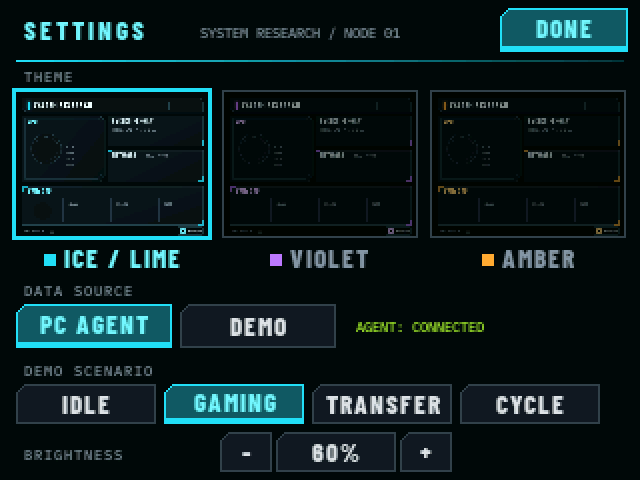
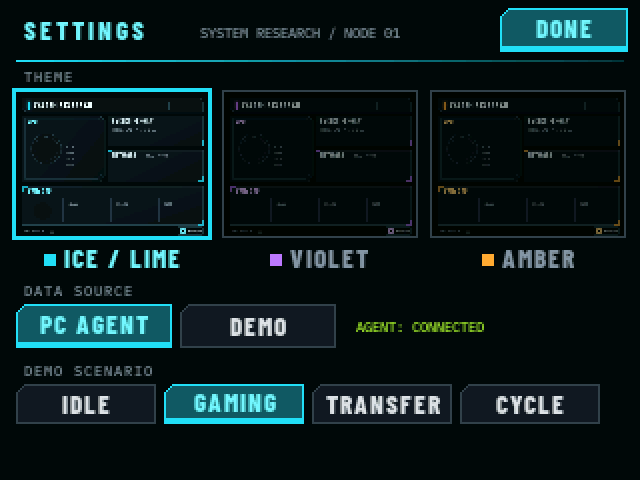
docs: real-board demo GIF and photos, crisp 2x renders
- images/demo.gif: dashboard + tapping through the history pages on a real
  CYD (from the owner's video; cropped, 10 fps, 2.3 MB, no audio/metadata)
- three photos of the board (live data from an M1 MacBook, demo GAMING,
  demo TRANSFER), cropped to the board, EXIF / phone info stripped
- renders regenerated from tools/host_preview at 640x480 (settings page now
  without the hidden BRIGHTNESS row)
- README EN/TH: gallery split into "on a real board" and "renders"; brightness
  wording matches BACKLIGHT_DIMMING

Changed region(s): [[0.3438, 0.875, 0.7188, 1.0], [0.0312, 0.9375, 0.1875, 0.9688]]

diff --git a/README.th.md b/README.th.md
@@ -8,9 +8,19 @@
 ![Agent](https://img.shields.io/badge/agent-Windows%20%7C%20macOS%20%7C%20Linux-blue)
 ![License](https://img.shields.io/badge/license-MIT-green)
 
-![Dashboard](images/dashboard.png)
+<p align="center"><img src="images/demo.gif" width="320" alt="หน้าหลักในโหมดเดโม แล้วแตะดูหน้ากราฟย้อนหลัง CPU / อุณหภูมิ / หน่วยความจำ / GPU"></p>
 
-> ภาพในไฟล์นี้เป็น **ภาพที่เรนเดอร์จากโค้ด UI จริงของ firmware** ที่คอมไพล์บนคอมพิวเตอร์ (`tools/host_preview`) ไม่ใช่รูปถ่ายบอร์ด ดู [สิ่งที่ยังไม่ได้ทดสอบกับบอร์ดจริง](#status)
+**บนบอร์ดจริง:**
+
+| ข้อมูลจริงจาก MacBook M1 | เดโม: GAMING | เดโม: TRANSFER |
+|---|---|---|
+| ![Live on a Mac](images/photo-live-mac.jpg) | ![Demo gaming](images/photo-demo-gaming.jpg) | ![Demo transfer](images/photo-demo-transfer.jpg) |
+
+<sub>รูปข้อมูลจริงถ่ายก่อนอัปเดต agent ให้อ่านอุณหภูมิบน Apple Silicon ได้ ในรูปนั้นอุณหภูมิ CPU / NVMe จึงยังเป็น `--`</sub>
+
+**ภาพเรนเดอร์จากโค้ด UI ชุดเดียวกัน** (`tools/host_preview` ตรงทุกพิกเซล):
+
+![Dashboard](images/dashboard.png)
 
 | ICE / LIME | VIOLET | AMBER |
 |---|---|---|
@@ -19,7 +29,7 @@
 | | | |
 |---|---|---|
 | ![Detail](images/detail.png) | ![Settings](images/settings.png) | ![Offline](images/offline.png) |
-| แตะแผงไหนก็ได้ → กราฟย้อนหลัง 60 วินาที พร้อม MIN / AVG / MAX | ธีม, แหล่งข้อมูล, โหมดเดโม, ความสว่าง — บันทึกลง flash | agent ไม่ทำงาน → ขึ้นสถานะ OFFLINE ชัดเจน |
+| แตะแผงไหนก็ได้ → กราฟย้อนหลัง 60 วินาที พร้อม MIN / AVG / MAX | ธีม, แหล่งข้อมูล, โหมดเดโม — บันทึกลง flash | agent ไม่ทำงาน → ขึ้นสถานะ OFFLINE ชัดเจน |
 
 ## ฟีเจอร์
 
@@ -29,7 +39,7 @@
 - **โหมดเดโม** (Settings → DATA SOURCE → DEMO): ตัวจำลองในเครื่อง มีพรีเซ็ต IDLE / GAMING / TRANSFER ตามดีไซน์ หรือ CYCLE วนไปเรื่อยๆ — ไม่ต้องมี PC
 - **หน้าประวัติ** — แตะ CPU / RAM / NET / NVMe เพื่อดูกราฟ 60 วินาที, MIN / AVG / MAX; ปุ่มลูกศรไปต่อที่อุณหภูมิ CPU และ **GPU load** (ชื่อ GPU, อุณหภูมิ, VRAM) ซึ่งเลย์เอาต์หลักไม่มีแผงให้
 - **ไม่กระพริบ**: เฟรมและป้ายที่ไม่เปลี่ยนถูกเรนเดอร์ไว้ใน flash ล่วงหน้า วาดเฉพาะ widget สด และแต่ละส่วนจะถูกวาดใหม่ **เฉพาะเมื่อค่าเปลี่ยน** (หน้าจอนิ่งๆ ไม่ส่งพิกเซลเลย) ไม่ใช้ buffer เต็มจอ เพราะ CYD ไม่มี PSRAM
-- ปรับ **ความสว่าง** ได้ และการตั้งค่าทั้งหมดเก็บใน NVS flash ไม่หายแม้ถอดไฟ
+- การตั้งค่าทั้งหมดเก็บใน NVS flash ไม่หายแม้ถอดไฟ ไฟหลังจอเปิดเต็มตลอด เพราะ CYD ตัวนี้หรี่ไฟด้วย PWM ไม่ได้ (ดู [สถานะ](#status)) ถ้าบอร์ดที่ใช้หรี่ได้ เปิดปุ่มปรับความสว่างด้วย `BACKLIGHT_DIMMING 1`
 
 ## สถาปัตยกรรม
 
@@ -157,11 +167,11 @@ python monitor_agent.py          # หา port ของบอร์ดเอง
 | `<` `>` ในหน้าประวัติ | วนไป CPU load → CPU temp → หน่วยความจำ → GPU → เครือข่าย → NVMe |
 | `BACK` / `DONE` | กลับหน้าหลัก |
 
-**Settings**: ธีม (ภาพย่อจากอาร์ตจริง), แหล่งข้อมูล (`PC AGENT` / `DEMO`), โหมดเดโม (`IDLE` / `GAMING` / `TRANSFER` / `CYCLE`), ความสว่าง (20–100 %) และมีบรรทัดบอกว่าตอนนี้ agent เชื่อมต่ออยู่ไหม แม้จะอยู่ในโหมด DEMO
+**Settings**: ธีม (ภาพย่อจากอาร์ตจริง), แหล่งข้อมูล (`PC AGENT` / `DEMO`), โหมดเดโม (`IDLE` / `GAMING` / `TRANSFER` / `CYCLE`), ความสว่าง (20–100 %) เฉพาะเมื่อตั้ง `BACKLIGHT_DIMMING 1` และมีบรรทัดบอกว่าตอนนี้ agent เชื่อมต่ออยู่ไหม แม้จะอยู่ในโหมด DEMO
 
 สถานะที่ header: **ONLINE** สีเขียว (ข้อมูลสด), **DEMO** สีเหลืองอำพัน (ตัวจำลอง), **OFFLINE** สีแดงกระพริบ (ไม่มีข้อมูลเกิน 2.5 วินาที)
 
-> ตัวเลือก tile และแถบ RGB วิ่งของเฟิร์มแวร์เดิมถูกนำออก: หน้าหลักตอนนี้เป็นเลย์เอาต์เดียวตามดีไซน์ ส่วนธีม ความสว่าง หน้าประวัติ รายละเอียด GPU และการบันทึกค่ายังอยู่ครบ
+> ตัวเลือก tile และแถบ RGB วิ่งของเฟิร์มแวร์เดิมถูกนำออก: หน้าหลักตอนนี้เป็นเลย์เอาต์เดียวตามดีไซน์ ส่วนธีม หน้าประวัติ รายละเอียด GPU และการบันทึกค่ายังอยู่ครบ
 
 ## การใช้งานประจำวัน & Auto-start
 

diff --git a/README.md b/README.md
@@ -8,9 +8,19 @@ A PC/Mac hardware monitor on a **$6 ESP32 board with a 2.8" touch screen** (CYD 
 ![Agent](https://img.shields.io/badge/agent-Windows%20%7C%20macOS%20%7C%20Linux-blue)
 ![License](https://img.shields.io/badge/license-MIT-green)
 
-![Dashboard](images/dashboard.png)
+<p align="center"><img src="images/demo.gif" width="320" alt="Dashboard in demo mode, then tapping through the CPU / temperature / memory / GPU history pages"></p>
 
-> The pictures in this README are **renders of the real firmware UI code** compiled for the host (`tools/host_preview`), not photos of a board. See [What has not been tested on hardware](#status).
+**On a real board:**
+
+| Live data from an M1 MacBook | Demo: GAMING | Demo: TRANSFER |
+|---|---|---|
+| ![Live on a Mac](images/photo-live-mac.jpg) | ![Demo gaming](images/photo-demo-gaming.jpg) | ![Demo transfer](images/photo-demo-transfer.jpg) |
+
+<sub>The live photo was taken before the agent learned to read Apple Silicon temperatures, so CPU / NVMe temperature still show `--` there.</sub>
+
+**Renders of the same UI code** (`tools/host_preview`, pixel-exact):
+
+![Dashboard](images/dashboard.png)
 
 | ICE / LIME | VIOLET | AMBER |
 |---|---|---|
@@ -19,7 +29,7 @@ A PC/Mac hardware monitor on a **$6 ESP32 board with a 2.8" touch screen** (CYD 
 | | | |
 |---|---|---|
 | ![Detail](images/detail.png) | ![Settings](images/settings.png) | ![Offline](images/offline.png) |
-| Tap a panel → 60 s history with MIN / AVG / MAX | Theme, data source, demo scenario, brightness — saved to flash | Agent not running → clear OFFLINE state |
+| Tap a panel → 60 s history with MIN / AVG / MAX | Theme, data source, demo scenario — saved to flash | Agent not running → clear OFFLINE state |
 
 ## Features
 
@@ -29,7 +39,7 @@ A PC/Mac hardware monitor on a **$6 ESP32 board with a 2.8" touch screen** (CYD 
 - **Demo mode** (Settings → DATA SOURCE → DEMO): built-in simulator with the design's IDLE / GAMING / TRANSFER presets, or CYCLE through them — no PC needed
 - **History pages** — tap CPU / RAM / NET / NVMe for a 60-second graph, MIN / AVG / MAX; the arrows also reach CPU temperature and **GPU load** (GPU name, temperature, VRAM), which the dashboard layout has no panel for
 - **Flicker-free**: the static frames and labels are pre-rendered into flash; only the live widgets are drawn, each region repainted **only when its value changed** (a steady screen sends no pixels at all). No full-screen buffer — the CYD has no PSRAM
-- Backlight **brightness** control; all settings persist in NVS flash across power cycles
+- All settings persist in NVS flash across power cycles. The backlight runs full-on: this CYD's backlight cannot dim with PWM (see [Status](#status)); boards that can dim get a brightness control with `BACKLIGHT_DIMMING 1`
 
 ## Architecture
 
@@ -157,11 +167,11 @@ What each OS can provide (besides GPUs):
 | `<` `>` on a history page | steps through CPU load → CPU temp → memory → GPU → network → NVMe |
 | `BACK` / `DONE` | back to the dashboard |
 
-**Settings**: theme (thumbnails of the real art), data source (`PC AGENT` / `DEMO`), demo scenario (`IDLE` / `GAMING` / `TRANSFER` / `CYCLE`), brightness (20–100 %). A line shows whether an agent is currently connected, even while in DEMO.
+**Settings**: theme (thumbnails of the real art), data source (`PC AGENT` / `DEMO`), demo scenario (`IDLE` / `GAMING` / `TRANSFER` / `CYCLE`), and brightness (20–100 %) only when `BACKLIGHT_DIMMING` is 1. A line shows whether an agent is currently connected, even while in DEMO.
 
 Header states: green **ONLINE** (live data), amber **DEMO** (simulator), blinking red **OFFLINE** (no data for 2.5 s).
 
-> The previous firmware's tile picker and animated RGB bar are gone: the dashboard is now one fixed layout (the design). Theme, brightness, history pages, GPU details and persisted settings were kept.
+> The previous firmware's tile picker and animated RGB bar are gone: the dashboard is now one fixed layout (the design). Theme, history pages, GPU details and persisted settings were kept.
 
 ## Daily use & auto-start
 
